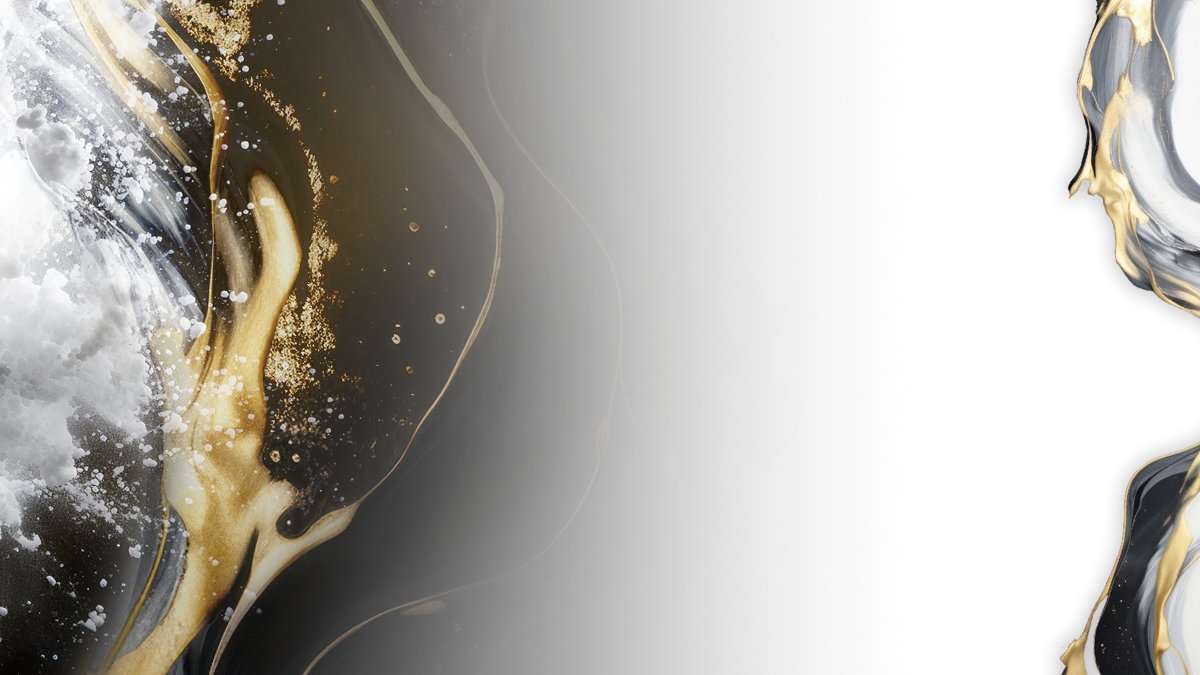
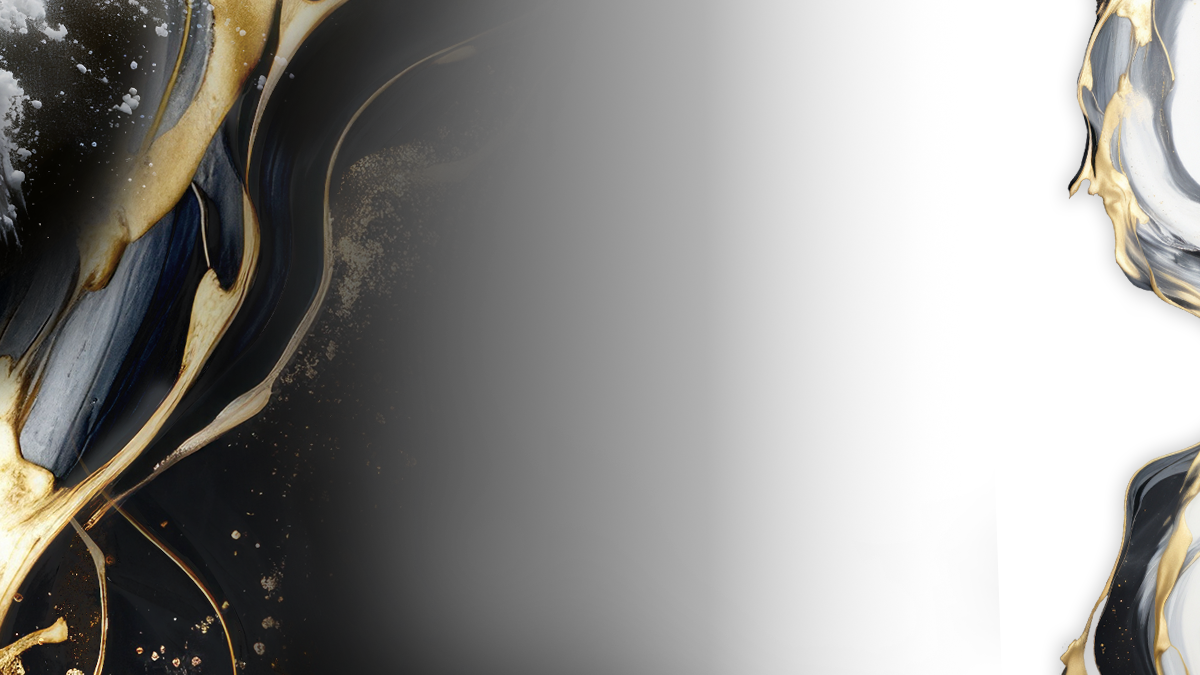
fix horizontal swirls

diff --git a/milan-winner-card-generator/js/script.js b/milan-winner-card-generator/js/script.js
@@ -237,6 +237,15 @@ document.addEventListener('DOMContentLoaded', () => {
     
         return { textAreaTop: size.height - 75, textAreaHeight: size.height / 3 };
       }
+
+      const drawLogo = (ctx, size, logo) => {
+        //Draw logo in top right
+        const logoW = logo.width;
+        const logoH = logo.height;
+        const drawLX = size.width - 170;
+        const drawLY = 70;
+        ctx.drawImage(logo, drawLX, drawLY, logoW, logoH);
+      }
     
       //Simple Fade style
       function applySimpleFadeStyle(ctx, size, logo) {
@@ -259,13 +268,6 @@ document.addEventListener('DOMContentLoaded', () => {
           ctx.fillStyle = gradient;
           ctx.fillRect(0, 0, size.width, size.height);
         }
-    
-        //Draw logo in top right
-        const logoW = logo.width;
-        const logoH = logo.height;
-        const drawLX = size.width - 170;
-        const drawLY = 70;
-        ctx.drawImage(logo, drawLX, drawLY, logoW, logoH);
     
         //Return text area (bottom third of image)
         const textAreaHeight = size.height / 3;
@@ -356,9 +358,7 @@ document.addEventListener('DOMContentLoaded', () => {
         };
     
         try {
-          const cards = {
-    
-          };
+          const cards = { };
     
           function addMedalist() {
             // Prepare data to send
@@ -463,13 +463,16 @@ document.addEventListener('DOMContentLoaded', () => {
                   size.width, size.height
                 );
               }
-    
+
+
               // Create faded background and text overlay
               let textArea = applySimpleFadeStyle(ctx, size, logo);
     
               // Add swirled border around photo
               const sizeSwirls = swirls[size.label];
               applyStyles(ctx, size, logo, sizeSwirls);
+
+              drawLogo(ctx, size, logo);
     
               // Draw athlete/ medal text
     
